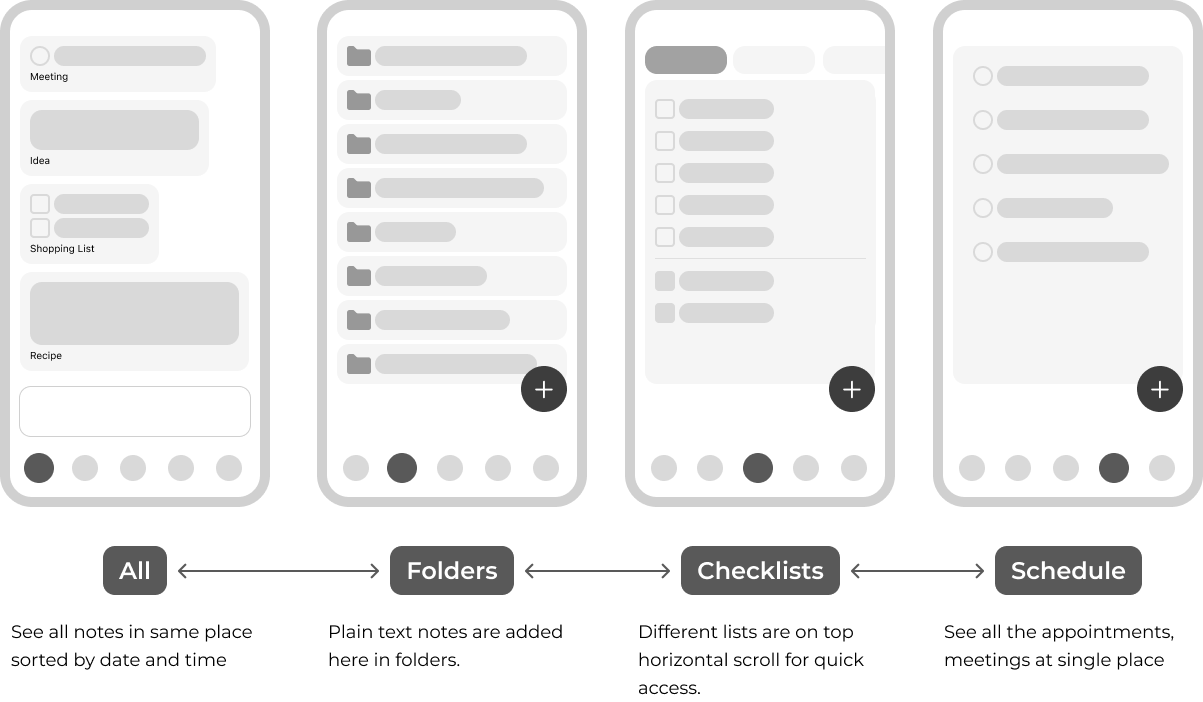
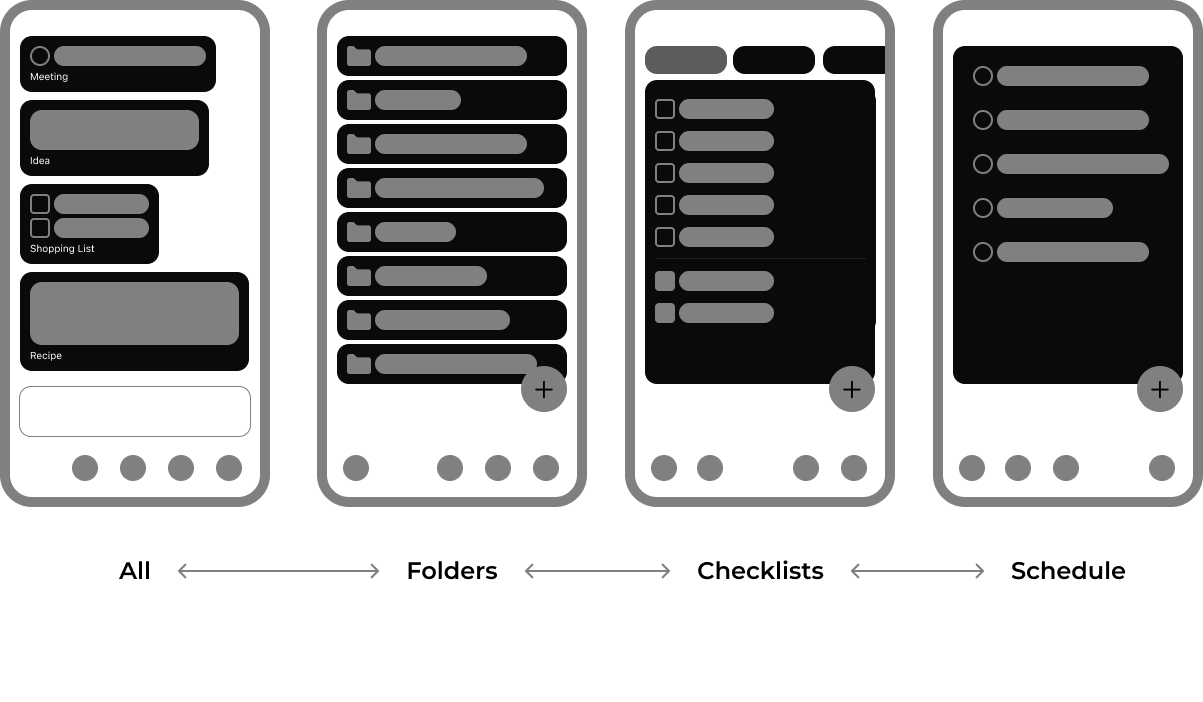
country escape added to the projects page

diff --git a/index.html b/index.html
@@ -21,21 +21,44 @@
             margin-bottom: 4rem !important;
         }
         
+        .project-card {
+            display: flex;
+            height: 340px;
+            padding: 20px;
+            align-items: center;
+            align-content: center;
+            justify-content: center;
+            gap: 20px;
+            align-self: stretch;
+            flex-wrap: wrap;
+            border-radius: 28px;
+            background: var(--Project-Card-BG, #1C1C1E);
+        }
+        
+        .project-card .col-md-6 {
+            flex: 0 0 auto;
+            width: calc(50% - 10px);
+        }
+        
         .project-row .title {
             font-size: 1.8rem;
             font-weight: 700;
             line-height: 1.3;
-            color: #000;
+            color: #fff;
         }
         
         .project-row p {
             font-size: 1rem;
             line-height: 1.6;
-            color: #666;
+            color: #ccc;
+        }
+        
+        .project-card .project-thumb {
+            color: #fff !important;
         }
         
         .project-tags {
-            color: #adb5bd !important;
+            color: #999 !important;
             font-size: 0.9rem;
             font-weight: 500;
         }
@@ -59,17 +82,21 @@
         }
         
         @media (max-width: 768px) {
-            .project-row .order-md-1,
-            .project-row .order-md-2 {
-                order: 0 !important;
-            }
-            
             .project-row {
                 margin-bottom: 3rem !important;
             }
             
             .project-row .title {
                 font-size: 1.5rem;
+            }
+            
+            .project-card {
+                height: auto;
+                flex-direction: column;
+            }
+            
+            .project-card .col-md-6 {
+                width: 100%;
             }
         }
     </style>
@@ -122,82 +149,110 @@
                 <div class="row mb-2 justify-content-center">
                     <div class="col-lg-10">
                         <!-- Project 1: Image Left, Content Right -->
-                        <div class="row project-row mb-5 align-items-center">
-                            <div class="col-md-6">
-                                <a href="project-ficus-notes.html" class="text-dark project-thumb">
-                                    <img src="assets/img/projects/img-ficusnotes.png" class="img-fluid" alt="Ficus Notes">
-                                </a>
-                            </div>
-                            <div class="col-md-6">
-                                <a href="project-ficus-notes.html" class="text-dark project-thumb">
-                                    <h3 class="font-weight-bold title mb-3">Ficus Notes</h3>
-                                    <p class="mb-3">An AI-powered productivity app designed to help users organize their thoughts and tasks more efficiently. Features intelligent note-taking, smart categorization, and seamless integration across devices.</p>
-                                    <p class="mb-0 project-tags">2025 • iOS App • Productivity • AI</p>
-                                </a>
+                        <div class="project-row mb-5">
+                            <div class="project-card">
+                                <div class="col-md-6">
+                                    <a href="project-zynga.html" class="text-dark project-thumb">
+                                        <img src="assets/img/projects/project-zynga/zynga-cover.png" class="img-fluid" alt="Country Escape">
+                                    </a>
+                                </div>
+                                <div class="col-md-6">
+                                    <a href="project-zynga.html" class="text-dark project-thumb">
+                                        <h3 class="font-weight-bold title mb-3">Country Escape</h3>
+                                        <p class="mb-3">Owned UX for live events, progression systems, and monetization flows in mobile farming game. Designed system-level interactions that influenced retention, engagement, and revenue.</p>
+                                        <p class="mb-0 project-tags">2021-2024 • Mobile Game • UX Design</p>
+                                    </a>
+                                </div>
                             </div>
                         </div>
 
-                        <!-- Project 2: Image Right, Content Left -->
-                        <div class="row project-row mb-5 align-items-center">
-                            <div class="col-md-6 order-md-2">
-                                <a href="project-battlepass-fvce.html" class="text-dark project-thumb">
-                                    <img src="assets/img/projects/img-battlepass.png" class="img-fluid" alt="FarmVille: Country Escape Battle Pass">
-                                </a>
-                            </div>
-                            <div class="col-md-6 order-md-1">
-                                <a href="project-battlepass-fvce.html" class="text-dark project-thumb">
-                                    <h3 class="font-weight-bold title mb-3">FarmVille: Country Escape</h3>
-                                    <p class="mb-3">Designed and implemented a comprehensive Battle Pass system for the popular mobile farming game. Created engaging progression mechanics, reward structures, and user retention features.</p>
-                                    <p class="mb-0 project-tags">2023 • Mobile Game • UX Design • Battle Pass</p>
-                                </a>
+                        <!-- Project 2: Image Left, Content Right -->
+                        <div class="project-row mb-5">
+                            <div class="project-card">
+                                <div class="col-md-6">
+                                    <a href="project-ficus-notes.html" class="text-dark project-thumb">
+                                        <img src="assets/img/projects/img-ficusnotes.png" class="img-fluid" alt="Ficus Notes">
+                                    </a>
+                                </div>
+                                <div class="col-md-6">
+                                    <a href="project-ficus-notes.html" class="text-dark project-thumb">
+                                        <h3 class="font-weight-bold title mb-3">Ficus Notes</h3>
+                                        <p class="mb-3">An AI-powered productivity app designed to help users organize their thoughts and tasks more efficiently. Features intelligent note-taking, smart categorization, and seamless integration across devices.</p>
+                                        <p class="mb-0 project-tags">2025 • iOS App • Productivity • AI</p>
+                                    </a>
+                                </div>
                             </div>
                         </div>
 
                         <!-- Project 3: Image Left, Content Right -->
-                        <div class="row project-row mb-5 align-items-center">
-                            <div class="col-md-6">
-                                <a href="project-understand-chess.html" class="text-dark project-thumb">
-                                    <img src="assets/img/projects/img-understand-chess.png" class="img-fluid" alt="Understand Chess Website">
-                                </a>
-                            </div>
-                            <div class="col-md-6">
-                                <a href="project-understand-chess.html" class="text-dark project-thumb">
-                                    <h3 class="font-weight-bold title mb-3">Understand Chess Website</h3>
-                                    <p class="mb-3">A comprehensive e-learning platform for chess enthusiasts. Features interactive tutorials, game analysis tools, and personalized learning paths to help players improve their chess skills.</p>
-                                    <p class="mb-0 project-tags">2019 • Website • E-learning • Chess</p>
-                                </a>
+                        <div class="project-row mb-5">
+                            <div class="project-card">
+                                <div class="col-md-6">
+                                    <a href="project-battlepass-fvce.html" class="text-dark project-thumb">
+                                        <img src="assets/img/projects/img-battlepass.png" class="img-fluid" alt="FarmVille: Country Escape Battle Pass">
+                                    </a>
+                                </div>
+                                <div class="col-md-6">
+                                    <a href="project-battlepass-fvce.html" class="text-dark project-thumb">
+                                    <h3 class="font-weight-bold title mb-3">Battlepass: Country Escape</h3>
+                                    <p class="mb-3">Designed and implemented a comprehensive Battle Pass system for the popular mobile farming game. Created engaging progression mechanics, reward structures, and user retention features.</p>
+                                    <p class="mb-0 project-tags">2023 • Mobile Game • UX Design • Battle Pass</p>
+                                    </a>
+                                </div>
                             </div>
                         </div>
 
-                        <!-- Project 4: Image Right, Content Left -->
-                        <div class="row project-row mb-5 align-items-center">
-                            <div class="col-md-6 order-md-2">
-                                <a href="project-check-in-app.html" class="text-dark project-thumb">
-                                    <img src="assets/img/projects/img-event-checkin.png" class="img-fluid" alt="Event Check-In App">
-                                </a>
-                            </div>
-                            <div class="col-md-6 order-md-1">
-                                <a href="project-check-in-app.html" class="text-dark project-thumb">
-                                    <h3 class="font-weight-bold title mb-3">Event Check-In App</h3>
-                                    <p class="mb-3">A mobile application designed to streamline event management and guest check-in processes. Features QR code scanning, real-time attendance tracking, and comprehensive event analytics.</p>
-                                    <p class="mb-0 project-tags">2016 • Mobile App • Event Management • Hospitality</p>
-                                </a>
+                        <!-- Project 4: Image Left, Content Right -->
+                        <div class="project-row mb-5">
+                            <div class="project-card">
+                                <div class="col-md-6">
+                                    <a href="project-understand-chess.html" class="text-dark project-thumb">
+                                        <img src="assets/img/projects/img-understand-chess.png" class="img-fluid" alt="Understand Chess Website">
+                                    </a>
+                                </div>
+                                <div class="col-md-6">
+                                    <a href="project-understand-chess.html" class="text-dark project-thumb">
+                                        <h3 class="font-weight-bold title mb-3">Understand Chess Website</h3>
+                                        <p class="mb-3">A comprehensive e-learning platform for chess enthusiasts. Features interactive tutorials, game analysis tools, and personalized learning paths to help players improve their chess skills.</p>
+                                        <p class="mb-0 project-tags">2019 • Website • E-learning • Chess</p>
+                                    </a>
+                                </div>
                             </div>
                         </div>
 
                         <!-- Project 5: Image Left, Content Right -->
-                        <div class="row project-row mb-5 align-items-center">
-                            <div class="col-md-6">
-                                <a href="projects-graphic.html" class="text-dark project-thumb">
-                                    <img src="assets/img/projects/img-graphic-projects.png" class="img-fluid" alt="Graphic Projects">
-                                </a>
+                        <div class="project-row mb-5">
+                            <div class="project-card">
+                                <div class="col-md-6">
+                                    <a href="project-check-in-app.html" class="text-dark project-thumb">
+                                        <img src="assets/img/projects/img-event-checkin.png" class="img-fluid" alt="Event Check-In App">
+                                    </a>
+                                </div>
+                                <div class="col-md-6">
+                                    <a href="project-check-in-app.html" class="text-dark project-thumb">
+                                        <h3 class="font-weight-bold title mb-3">Event Check-In App</h3>
+                                        <p class="mb-3">A mobile application designed to streamline event management and guest check-in processes. Features QR code scanning, real-time attendance tracking, and comprehensive event analytics.</p>
+                                        <p class="mb-0 project-tags">2016 • Mobile App • Event Management • Hospitality</p>
+                                    </a>
+                                </div>
                             </div>
-                            <div class="col-md-6">
-                                <a href="projects-graphic.html" class="text-dark project-thumb">
-                                    <h3 class="font-weight-bold title mb-3">Graphic Projects</h3>
-                                    <p class="mb-3">A collection of visual design work including posters, illustrations, and print materials. Showcases creative problem-solving through visual communication and brand identity design.</p>
-                                    <p class="mb-0 project-tags">Visual • Print • Posters</p>
-                                </a>
+                        </div>
+
+                        <!-- Project 6: Image Left, Content Right -->
+                        <div class="project-row mb-5">
+                            <div class="project-card">
+                                <div class="col-md-6">
+                                    <a href="projects-graphic.html" class="text-dark project-thumb">
+                                        <img src="assets/img/projects/img-graphic-projects.png" class="img-fluid" alt="Graphic Projects">
+                                    </a>
+                                </div>
+                                <div class="col-md-6">
+                                    <a href="projects-graphic.html" class="text-dark project-thumb">
+                                        <h3 class="font-weight-bold title mb-3">Graphic Projects</h3>
+                                        <p class="mb-3">A collection of visual design work including posters, illustrations, and print materials. Showcases creative problem-solving through visual communication and brand identity design.</p>
+                                        <p class="mb-0 project-tags">Visual • Print • Posters</p>
+                                    </a>
+                                </div>
                             </div>
                         </div>
                     </div>

diff --git a/project-ficus-notes.html b/project-ficus-notes.html
@@ -103,7 +103,7 @@
                                 </p>
                             </div>
                             <div class="col-12 col-md-5 text-center text-md-end">
-                                <img src="assets/img/projects/project-ficus-notes/Ficus-Logo.svg" alt="Ficus Notes Logo" class="img-fluid" style="max-width: 16.0625rem;">
+                                <img src="assets/img/projects/project-ficus-notes/Ficus-Logo.png" alt="Ficus Notes Logo" class="img-fluid" style="max-width: 16.0625rem;">
                             </div>
                         </div>
                     </div>
